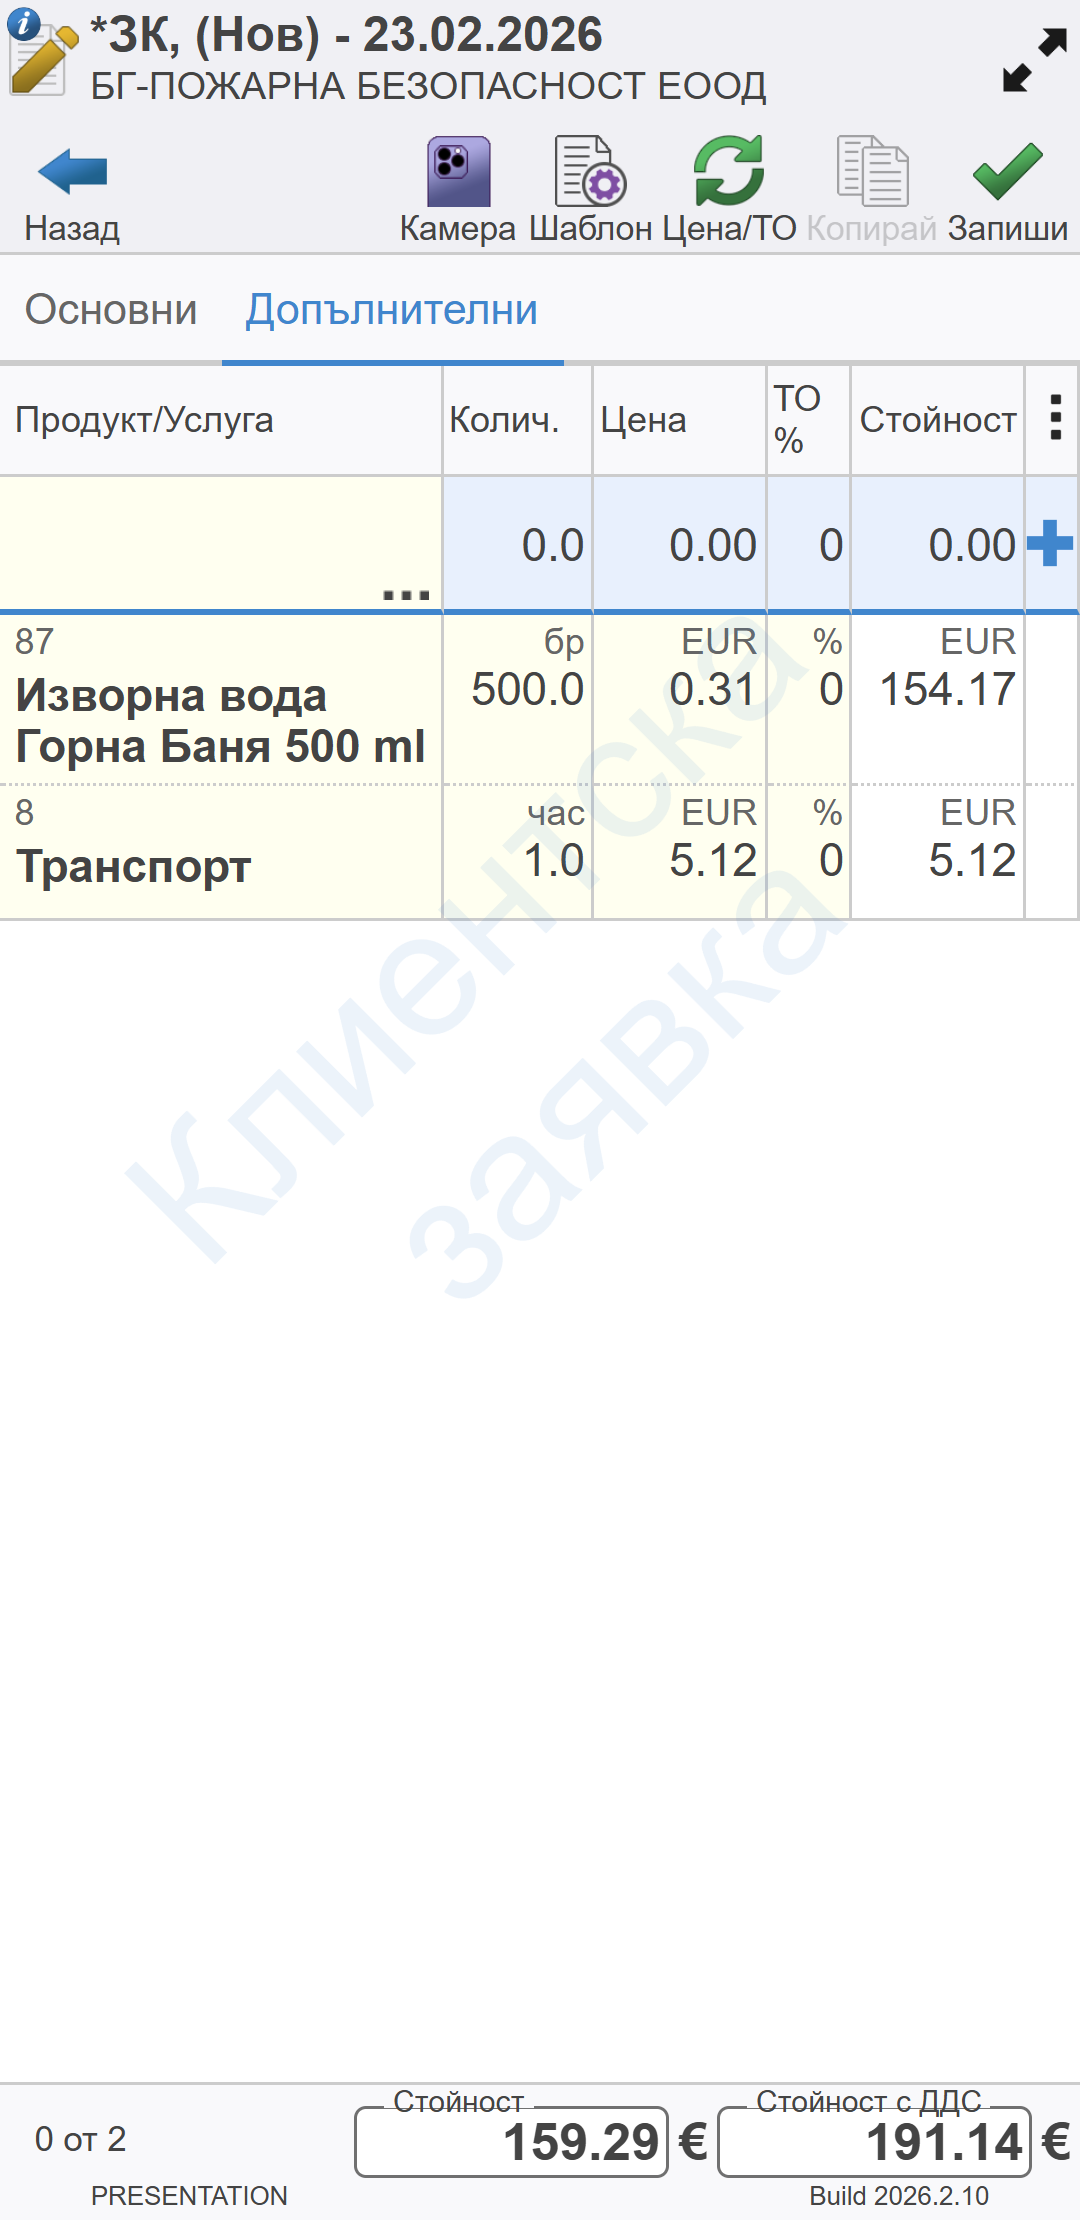
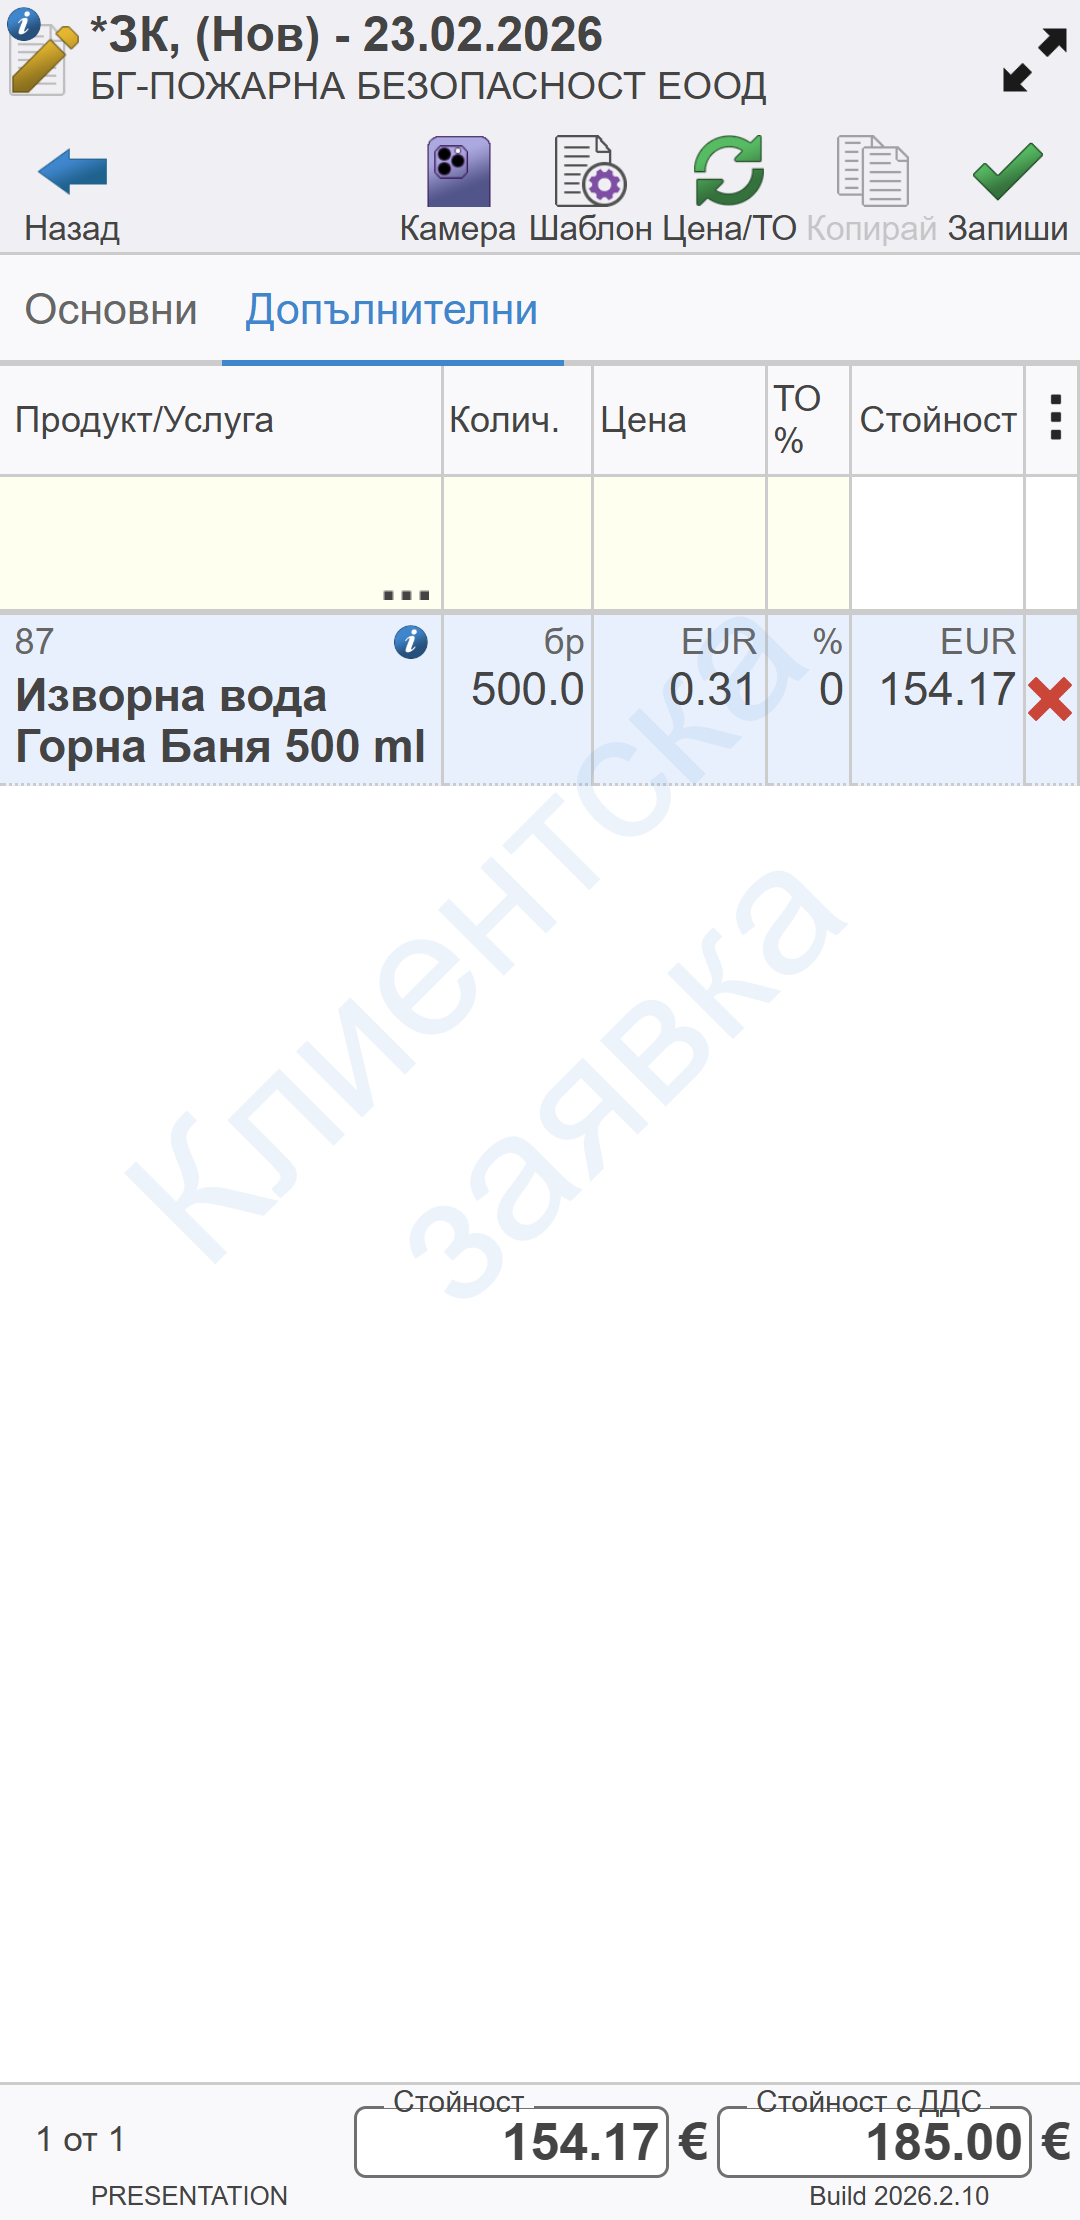
Допълване на тема Клиентски заявки

diff --git a/guide/mob/002-mob-docs/002-sales-orders.md b/guide/mob/002-mob-docs/002-sales-orders.md
@@ -69,7 +69,7 @@
 Заявка се въвежда от панел **Заявки** и бутон [**Нов**].  
 Системата попълва автоматично всички полета, за които има данни в настройките на контрагента.  
 
-## **Въвеждане на заявка**
+## **Въвеждане на съдържание**
 
 Независимо през коя функционалност е била създадена заявката, системата отваря същата бланка за въвеждане на данни. Тя е разделена на два панела - **Основни** и **Допълнителни**.  
 
@@ -110,3 +110,19 @@
 Системата автоматично калкулира общата стойност на документа с и без ДДС. 
 
 ![](902-sales-orders8.png){ class=align-center w=5cm }
+
+След като заявката е напълно въведена, документът се запаметява от бутон [**Запиши**]. С това системата извежда форма за потвърждение и предложение за приключване на документа.  
+
+> Ако документът бъде оставен в редакция, системата го третира като неактивна чернова.  
+Във всеки следващ момент може да бъде повторно отворен, редактиран и/или приключен.  
+
+![](902-sales-orders9.png){ class=align-center w=5cm }
+
+За приключване на документа се маркира опцията *Заявка от клиент* (в секция *Приключен*).  
+
+В секция *Генериране* системата дава възможност за генериране ан свързана продажба и складов документ.  
+
+От секция *Следваща операция* заявката може да бъде разпечатана, изпратена по имейл и записна във файл.
+
+Избраните опции се потвърждават с бутона [**ОК**].  
+С това заявката е приключена в системата.  
